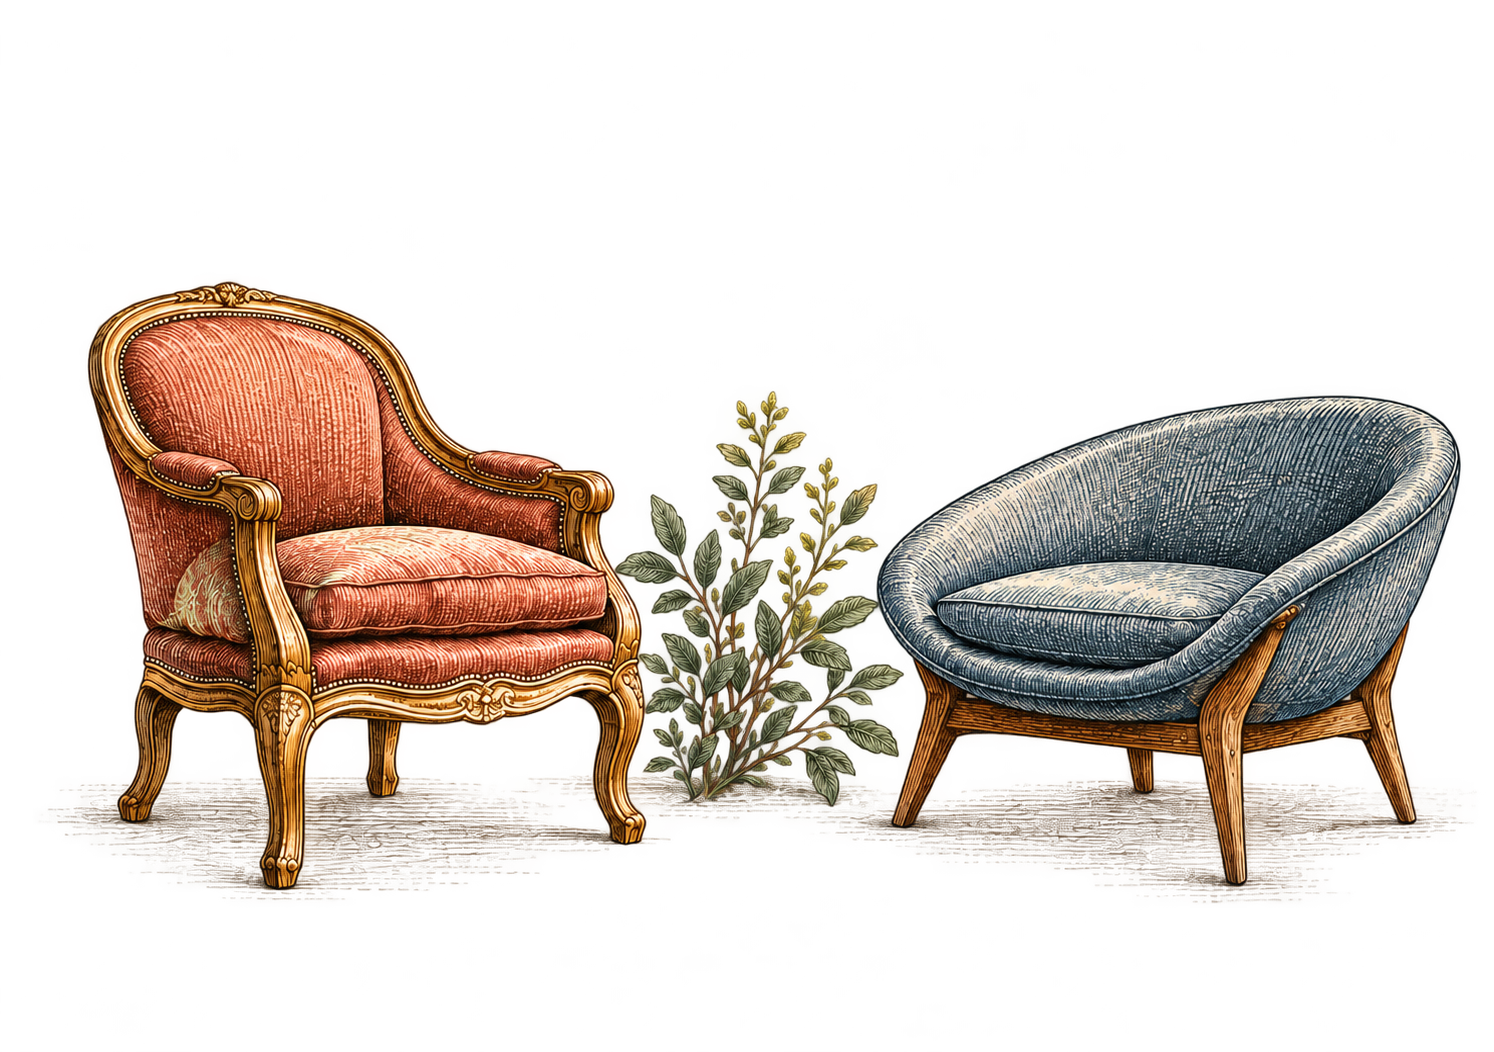
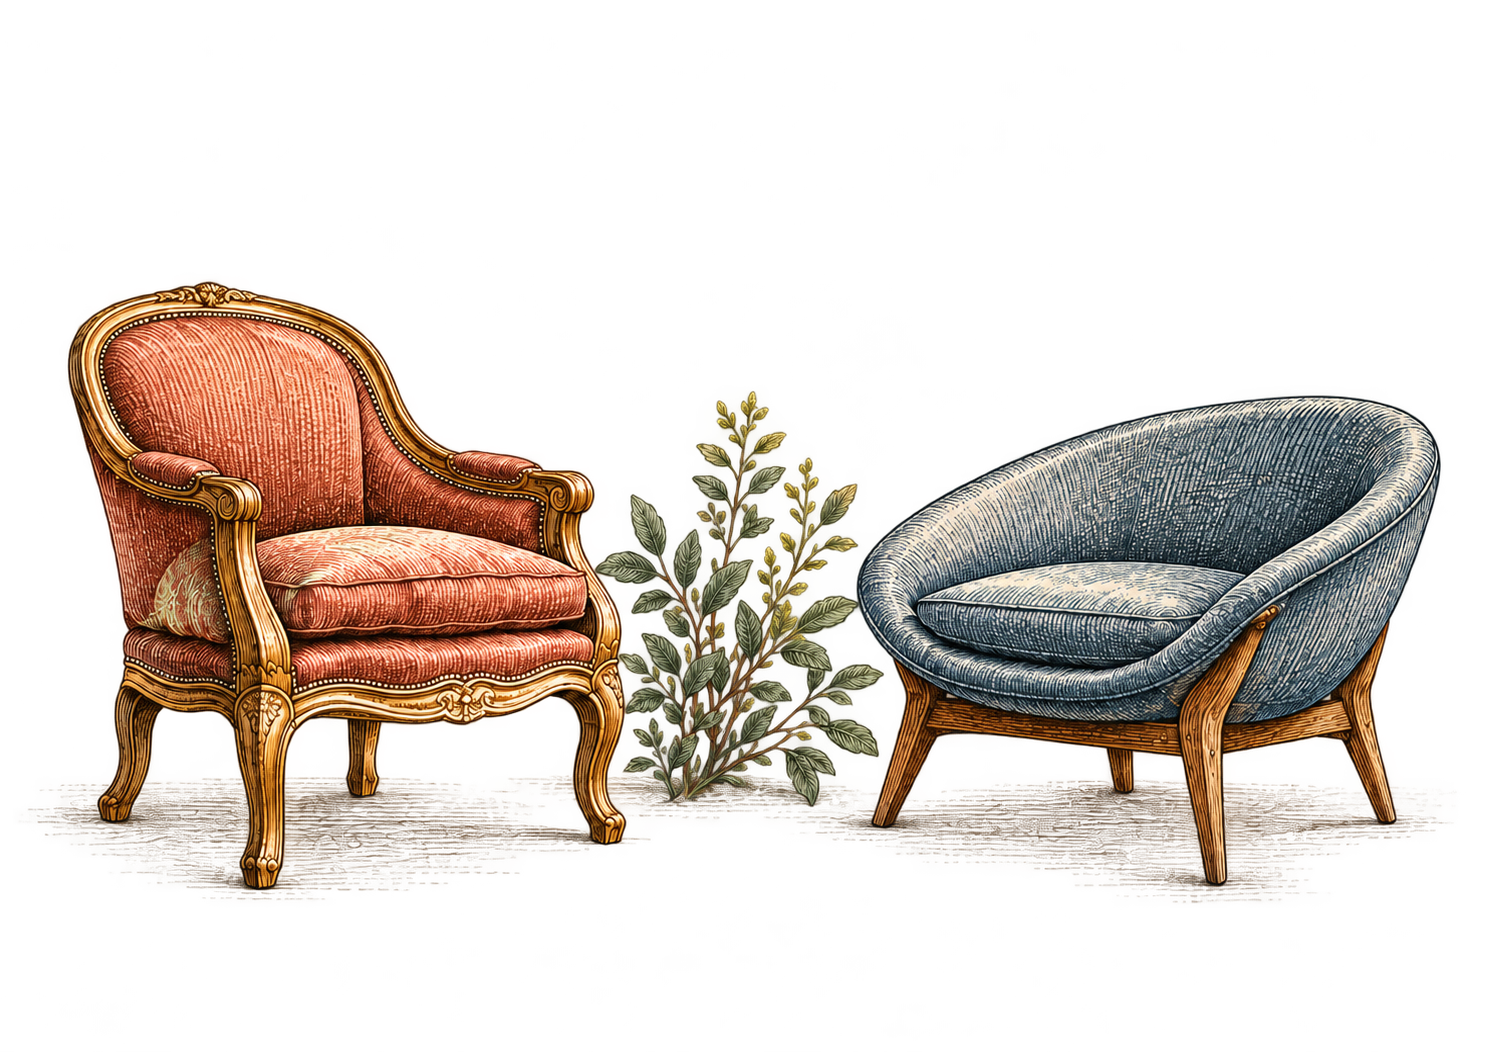
Update conversation illustration

Changed region(s): [[0.0308, 0.2433, 0.9853, 0.8517]]

diff --git a/index.html b/index.html
@@ -62,7 +62,7 @@
 
   <section class="section wrap" id="about"><div class="split about"><div class="about-image" data-slideshow><img class="is-active" src="assets-v3/client-workshop-group.jpg" alt="Participants with their decorated plates at a workshop" loading="lazy"><img src="assets-v3/client-workshop-painting.jpg" alt="Participants painting fabric lampshades at a workshop" loading="lazy" aria-hidden="true"><img src="assets-v3/reading.jpg" alt="Books and tea on a table" loading="lazy" aria-hidden="true"><img src="assets-v3/workshop.jpg" alt="Hands crafting a glass mosaic lamp on a café table" loading="lazy" aria-hidden="true"><span class="image-label">READ · THINK · MAKE</span></div><div><p class="eyebrow">About the Akademi</p><h2>One table.<br>Many possibilities.</h2><p class="quote">“Space to think together.<br>Room to hear each other.”</p><p class="body-large">Terapi Gibi Akademi is a meeting place at the intersection of psychology, art and human experience. We read, make things and leave room for a shared search for meaning. We meet in person at the cafés and art galleries we work with in Istanbul.</p><a class="text-link" href="#contact">Let’s meet <img class="arrow" src="assets-v3/arrow.png" alt="" width="16" height="16"></a></div></div></section>
 
-  <section class="therapy-section tinted" id="psychotherapy"><div class="wrap therapy"><div><p class="eyebrow">Psychotherapy</p><h2>Make space<br>to listen to yourself.</h2><p class="body-large">A quiet starting point for learning about psychotherapy and understanding the process.</p><button class="text-link" data-detail="therapy">About psychotherapy <img class="arrow" src="assets-v3/arrow.png" alt="" width="16" height="16"></button></div><img src="assets-v3/conversation.png" alt="An engraved illustration of two empty armchairs, inviting conversation" loading="lazy"></div></section>
+  <section class="therapy-section tinted" id="psychotherapy"><div class="wrap therapy"><div><p class="eyebrow">Psychotherapy</p><h2>Make space<br>to listen to yourself.</h2><p class="body-large">A quiet starting point for learning about psychotherapy and understanding the process.</p><button class="text-link" data-detail="therapy">About psychotherapy <img class="arrow" src="assets-v3/arrow.png" alt="" width="16" height="16"></button></div><img src="assets-v3/conversation.png?v=2" alt="An engraved illustration of two empty armchairs, inviting conversation" loading="lazy"></div></section>
 
   <section class="section wrap" id="read"><p class="eyebrow">Things we take with us</p><div class="section-heading"><h2>Read, watch,<br>think a little further.</h2></div><div class="recommendations"><article><img src="assets-v3/books.jpg" alt="An engraved open book" loading="lazy"><p class="eyebrow">Book</p><h3>The Stranger</h3><button class="text-link" data-detail="recommendation">Explore the idea <img class="arrow" src="assets-v3/arrow.png" alt="" width="16" height="16"></button></article><article><img src="assets-v3/film.jpg" alt="An engraved cinema projector and looping film strip" loading="lazy"><p class="eyebrow">Film</p><h3>Eternal Sunshine of the Spotless Mind</h3><button class="text-link" data-detail="film">Explore the idea <img class="arrow" src="assets-v3/arrow.png" alt="" width="16" height="16"></button></article><article><img src="assets-v3/reading.jpg" alt="Books and tea on a table" loading="lazy"><p class="eyebrow">An idea</p><h3>Making room for slow reading</h3><button class="text-link" data-detail="slow">Explore the idea <img class="arrow" src="assets-v3/arrow.png" alt="" width="16" height="16"></button></article></div></section>
 
